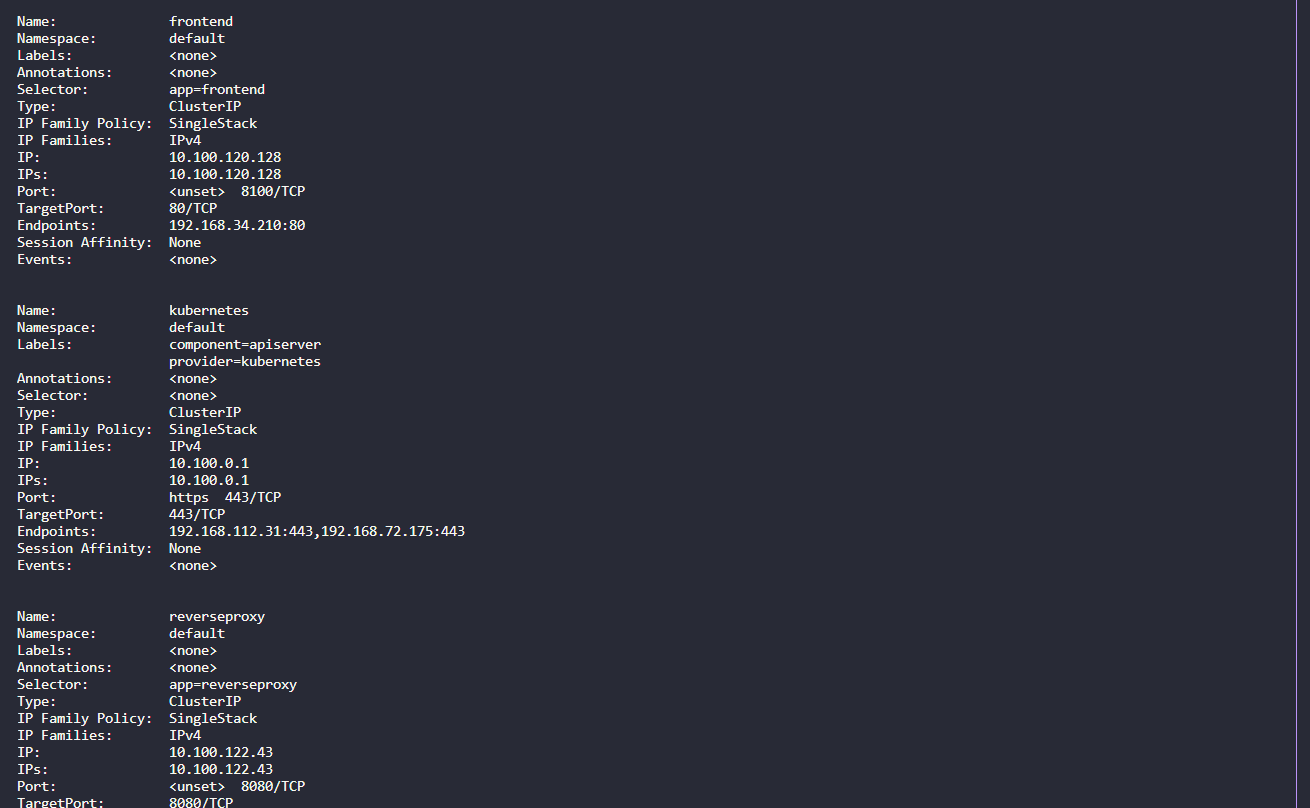
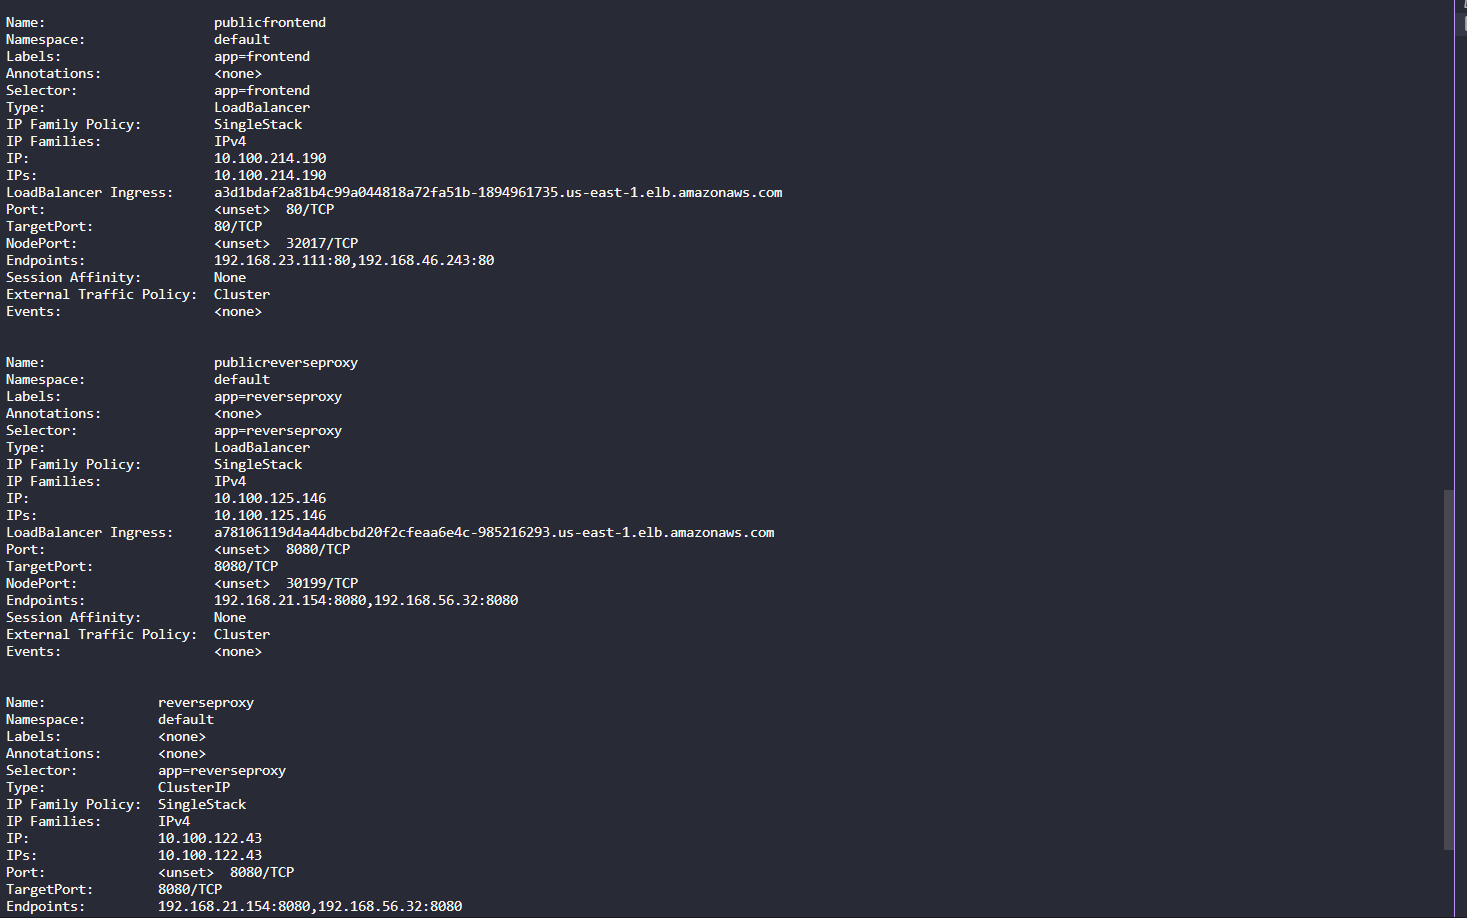
update

diff --git a/udagram-frontend/src/environments/environment.prod.ts b/udagram-frontend/src/environments/environment.prod.ts
@@ -5,7 +5,7 @@
 export const environment = {
   production: false,
   appName: 'Udagram',
-  apiHost: 'http://ae0c61849655c46e581aa91d3c03386d-513419455.us-east-1.elb.amazonaws.com:8080/api/v0'
+  apiHost: 'http://a78106119d4a44dbcbd20f2cfeaa6e4c-985216293.us-east-1.elb.amazonaws.com:8080/api/v0'
 };
 
 /*

diff --git a/udagram-frontend/src/environments/environment.ts b/udagram-frontend/src/environments/environment.ts
@@ -5,7 +5,7 @@
 export const environment = {
   production: false,
   appName: 'Udagram',
-  apiHost: 'http://ae0c61849655c46e581aa91d3c03386d-513419455.us-east-1.elb.amazonaws.com:8080/api/v0'
+  apiHost: 'http://a78106119d4a44dbcbd20f2cfeaa6e4c-985216293.us-east-1.elb.amazonaws.com:8080/api/v0'
 };
 
 /*
